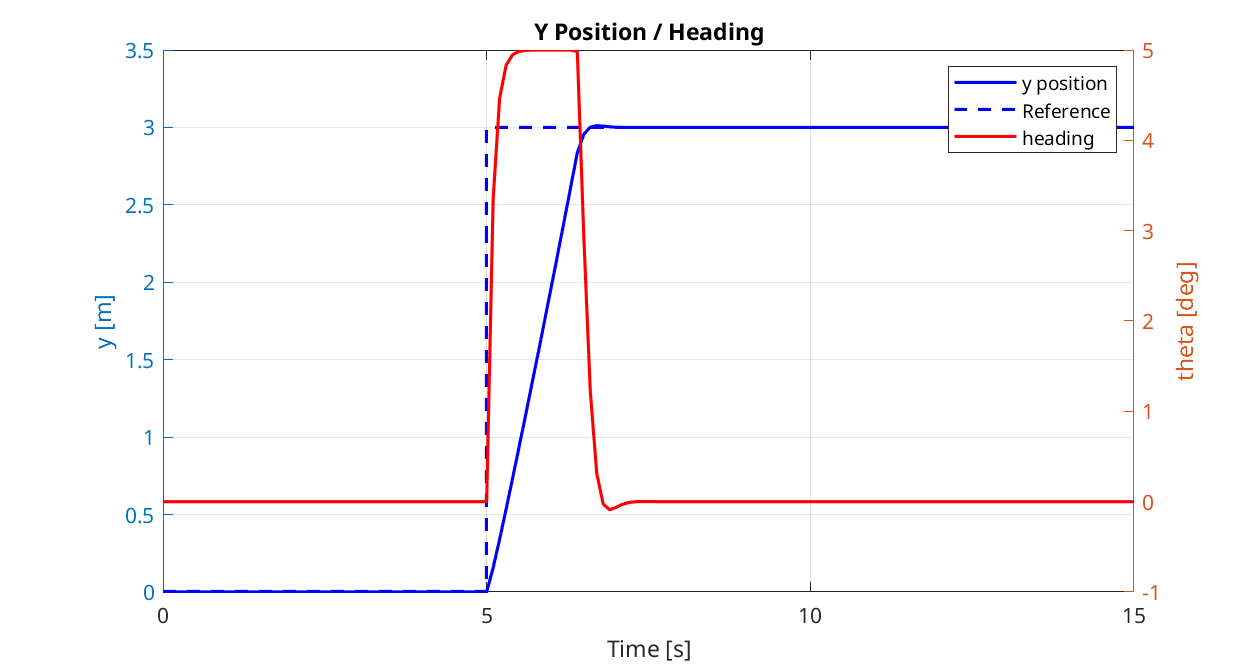
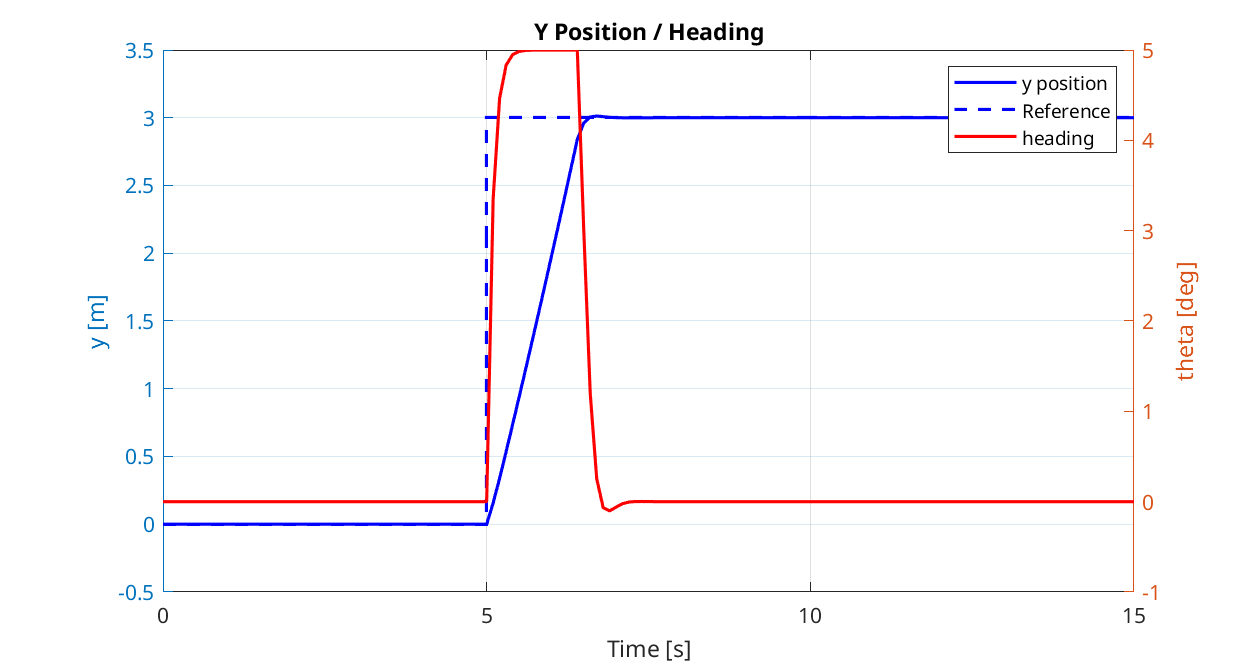
Deliverable 3 finished

diff --git a/Deliverable_5/MpcControl_lat.m b/Deliverable_5/MpcControl_lat.m
@@ -39,102 +39,90 @@ classdef MpcControl_lat < MpcControlBase
             
             % SET THE PROBLEM CONSTRAINTS con AND THE OBJECTIVE obj HERE
 
-            % Define cost matrices for the objective function
-            % Q penalizes state deviations: lateral position (y) and heading angle (theta)
-            % Higher weight on theta ensures good heading tracking
-            Q = diag([1, 10]);     % State cost: [y_weight, theta_weight]
-            R = 1;                 % Input cost: Penalty on steering angle
+            % State cost matrix Q penalizes deviations from reference state
+            % - Weight of 4 on lateral position error (y)
+            % - Weight of 4 on heading angle error (theta)
+            Q_track = diag([1, 1]);
             
-            % Define state constraints
-            % The car must stay within road boundaries and maintain reasonable heading
-            % y ∈ [-0.5, 3.5] meters (road boundaries)
-            % theta ∈ [-5°, 5°] (heading angle limits)
-            F = [1 0;              % Maximum y constraint
-                 -1 0;             % Minimum y constraint
-                 0 1;              % Maximum theta constraint
-                 0 -1];           % Minimum theta constraint
-            f = [3.5;              % Maximum y value
-                 0.5;              % Minimum y value (negative)
-                 5*pi/180;         % Maximum theta value
-                 5*pi/180];        % Maximum theta value (symmetric)
+            % Input cost matrix R penalizes control effort
+            % - Weight of 5 on steering angle changes
+            R_track = 2;
             
-            % Define input constraints
-            % Limit steering angle to ±30 degrees
-            M = [1; -1];           % For u ≤ 30° and -u ≤ 30°
-            m = [30*pi/180;        % Maximum steering angle
-                 30*pi/180];       % Maximum steering angle (symmetric)
+            % State constraints define safe operating region
+            % - Lateral position y must stay within road boundaries [-0.5, 3.5] meters
+            % - Heading angle theta must stay within [-5°, 5°]
+            F = [1  0;    % y ≤ 3.5
+                -1  0;    % -y ≤ 0.5
+                 0  1;    % theta ≤ 5°
+                 0 -1];   % -theta ≤ 5°
+            f = [3.5;              % Max y
+                 0.5;              % Min y (negative)
+                 5*pi/180;         % Max theta
+                 5*pi/180];        % Min theta (symmetric)
             
-            % Compute terminal cost and control law using LQR
-            % This provides stability guarantees for the MPC controller
-            [K, Qf,~] = dlqr(mpc.A,mpc.B,Q,R);   % Compute LQR solution
-            K = -K;                              % Convert to state feedback form u = Kx
+            % Input constraints limit steering angle to ±30 degrees
+            M = [1; -1];           % Steering constraints: δ ≤ 30° and -δ ≤ 30°
+            m = [30*pi/180;        % Max steering angle
+                 30*pi/180];       % Min steering angle (symmetric)
+            
+            % Terminal cost and controller for stability
+            % More conservative weights for terminal control
+            Q_term = Q_track/2;    % Terminal state cost
+            R_term = R_track*2;               % Terminal input cost
+            [Kt, Qf, ~] = dlqr(mpc.A, mpc.B, Q_term, R_term);  % LQR solution
+            Kt = -Kt;  % Convert to state feedback form u = Kx
             
             % Compute maximal invariant set for terminal constraints
-            % This set guarantees recursive feasibility and stability
-            Xf = polytope([F;M*K],[f;m]);        % Initial polytope with state and input constraints
-            Acl = mpc.A+mpc.B*K;                 % Closed-loop system matrix
-            % Iterate until we find the maximal invariant set
+            % This ensures recursive feasibility and stability
+            Xf = polytope([F; M*Kt], [f; m]);  % Initial polytope combining state and input constraints
+            Acl = mpc.A + mpc.B*Kt;           % Closed-loop dynamics matrix
+            
+            % Iteratively compute the maximal invariant set
             while 1
-                prevXf = Xf;                     % Store current set
-                [T,t] = double(Xf);              % Get inequality representation
-                preXf = polytope(T*Acl,t);       % Compute one-step backward reachable set
-                Xf = intersect(Xf, preXf);       % Intersect with current set
-                if isequal(prevXf, Xf)           % Check if set has converged
+                prevXf = Xf;
+                [T, t] = double(Xf);
+                preXf = polytope(T*Acl, t);    % One-step backward reachable set
+                Xf = intersect(Xf, preXf);     % Intersect with current set
+                if isequal(prevXf, Xf)
                     break
                 end
             end
-            [Ff,ff] = double(Xf);                % Get final inequality representation
+            [Ff, ff] = double(Xf);  % Get final polytope representation
+                        
+            % Set up optimization variables
+            X = sdpvar(nx, N);     % State trajectory [y; theta]
+            U = sdpvar(nu, N-1);   % Input trajectory [steering_angle]
             
-            % Set up MPC optimization problem
+            % Initialize constraint list with initial condition
+            con = (X(:,1) == x0 - mpc.xs);  % Initial state in deviation coordinates
             
-            % Define optimization variables
-            X = sdpvar(nx, N);    % States over horizon (deviation from xs)
-            U = sdpvar(nu, N-1);  % Inputs over horizon (deviation from us)
-            
-            % Initial state constraint in deviation coordinates
-            con = (X(:,1) == x0 - mpc.xs);
-            
-            % Loop through prediction horizon
+            % Build constraints and objective over prediction horizon
+            obj = 0;
             for k = 1:N-1
-                % System dynamics in deviation coordinates
-                % x(k+1) - xs = A(x(k) - xs) + B(u(k) - us)
+                % Dynamic constraints (deviation coordinates)
                 con = con + (X(:,k+1) == mpc.A*X(:,k) + mpc.B*U(:,k));
                 
-                % State constraints in absolute coordinates
-                % Convert deviation state back to absolute for constraint checking
+                % State constraints (convert to absolute coordinates)
                 con = con + (F*(X(:,k) + mpc.xs) <= f);
                 
-                % Input constraints in absolute coordinates
-                % Convert deviation input back to absolute for constraint checking
+                % Input constraints (convert to absolute coordinates)
                 con = con + (M*(U(:,k) + mpc.us) <= m);
+                
+                % Accumulate objective: tracking cost
+                state_error = X(:,k) - (x_ref - mpc.xs);
+                input_error = U(:,k) - (u_ref - mpc.us);
+                obj = obj + state_error'*Q_track*state_error + input_error'*R_track*input_error;
             end
             
-            % Terminal constraint from invariant set (in deviation coordinates)
-            % This ensures stability and recursive feasibility
-            con = con + (Ff*(X(:,N) + mpc.xs) <= ff);
+            % Add terminal constraint and cost
+            con = con + (Ff*(X(:,N) + mpc.xs) <= ff);  % Terminal set constraint
+            state_error = X(:,N) - (x_ref - mpc.xs);
+            obj = obj + state_error'*Qf*state_error;    % Terminal cost from LQR
             
-            % First input constraint (convert back to absolute coordinates)
+            % Extract first input (convert back to absolute coordinates)
             con = con + (u0 == U(:,1) + mpc.us);
             
-            % Set up objective function
-            obj = 0;
-            
-            % Add stage costs
-            for k = 1:N-1
-                % State error cost (in deviation coordinates)
-                state_error = X(:,k) - (x_ref - mpc.xs);
-                obj = obj + state_error'*Q*state_error;
-                
-                % Input error cost (in deviation coordinates)
-                input_error = U(:,k) - (u_ref - mpc.us);
-                obj = obj + input_error'*R*input_error;
-            end
-            
-            % Add terminal cost using LQR 
-            state_error = X(:,N) - (x_ref - mpc.xs);
-            obj = obj + state_error'*Qf*state_error;
-            
-            % Store variables for debugging
+            % Store debugging variables
             debugVars = {X, U};
             
             % YOUR CODE HERE YOUR CODE HERE YOUR CODE HERE YOUR CODE HERE

diff --git a/Deliverable_5/tube_mpc_sets.m b/Deliverable_5/tube_mpc_sets.m
@@ -30,8 +30,8 @@ B = -B;  % This matches equation (9) from the problem statement
 
 % Define cost weights for tracking control
 % States: [relative position; relative velocity]
-Q_track = diag([30, 60]);  % Higher weight on position than velocity 
-R_track = 4;             % Moderate penalty on control effort
+Q_track = diag([10, 30]);  % Higher weight on velocity than position 
+R_track = 1;              % Moderate penalty on control effort
 
 % Compute optimal feedback gain using discrete-time LQR
 K = -dlqr(A, B, Q_track, R_track); 
@@ -42,7 +42,7 @@ Acl = A + B*K;
 %% Minimal Robust Invariant Set Computation
 % Calculate the smallest set that bounds the effect of disturbances.
 % This set represents the tube around our nominal trajectory.
-uTs = 0;
+uTs = us(2);
 % Define input disturbance set (uncertain lead car throttle)
 W = Polyhedron('lb', uTs-0.5, 'ub', uTs+0.5);  % Throttle can vary by ±0.5 TAKE INTO ACCOUNT UTs?
 W = -B*W;                                       % Map throttle disturbance to state space
@@ -93,23 +93,18 @@ xlabel('Position Error');
 ylabel('Velocity Error');
 title('Minimal Robust Invariant Set');
 
-%% Define Safe Distance and Constraints
-% Set up the state and input constraints for the system.
-% These ensure safety and feasible operation.
+%% Constraint Definition
+% State constraints
+% The constraint ˜x - x ≥ 6 means the relative position must be at least 6m
+% Define x_safe (steady-state safe point behind lead car)
+x_safe_pos = 8;             % Choose a comfortable safety margin 
+x_safe = [x_safe_pos; 0];    % [position; velocity]
+min_gap = 6;                 % Minimum required gap between cars
 
-% Define safety parameters
-xsafe_pos = 8;           % Desired safety gap (meters)
-xsafe = [xsafe_pos; 0];  % Safety reference point [position; velocity]
-
-% Define state constraints relative to safety gap
-min_total_distance = 6;   % Minimum required gap between vehicles
-max_total_distance = 1e3;  % Maximum desired following distance
-max_rel_velocity = 1e3;    % Maximum allowed relative velocity
-
-% Convert absolute constraints to relative constraints
-x_min = [min_total_distance - xsafe_pos; -max_rel_velocity];
-x_max = [max_total_distance - xsafe_pos;  max_rel_velocity];
-X = Polyhedron('lb', x_min, 'ub', x_max);
+% State constraint set X
+% For relative position: Δx ≥ 6 
+% We don't constrain relative velocity directly
+X = Polyhedron('A', [-1 0], 'b', -(min_gap - x_safe_pos)); % Only constrain relative position
 
 % Define input constraints (throttle limits)
 u_min = -1;  % Maximum braking
@@ -137,6 +132,7 @@ R_term = R_track*2;               % Double input penalty - smoother control
 [Kt, Qf] = dlqr(A, B, Q_term, R_term);
 Kt = -Kt;
 Acl_t = A + B*Kt;  % Terminal closed-loop system
+
 
 %% Terminal Set Computation
 % Compute the terminal set for the MPC controller
@@ -221,5 +217,5 @@ save('tube_mpc_data.mat', ...
     'Q_term', 'R_term', ...            % Terminal weights
     'E', 'terminal_set', ...           % Sets
     'X_tilde', 'U_tilde', ...          % Constraints
-    'min_total_distance', 'xsafe_pos' ...  % Safety parameters
+    'min_gap', 'x_safe_pos' ...  % Safety parameters
 );

diff --git a/Deliverable_3/MpcControl_lat.m b/Deliverable_3/MpcControl_lat.m
@@ -40,13 +40,13 @@ classdef MpcControl_lat < MpcControlBase
             % SET THE PROBLEM CONSTRAINTS con AND THE OBJECTIVE obj HERE
 
             % State cost matrix Q penalizes deviations from reference state
-            % - Weight of 2 on lateral position error (y)
-            % - Weight of 4 on heading angle error (theta)
-            Q_track = diag([2, 4]);
+            % - Weight of 1 on lateral position error (y)
+            % - Weight of 1 on heading angle error (theta)
+            Q_track = diag([1, 1]);
             
             % Input cost matrix R penalizes control effort
-            % - Weight of 5 on steering angle changes
-            R_track = 5;
+            % - Weight of 2 on steering angle changes
+            R_track = 2;
             
             % State constraints define safe operating region
             % - Lateral position y must stay within road boundaries [-0.5, 3.5] meters

diff --git a/Deliverable_4/MpcControl_lat.m b/Deliverable_4/MpcControl_lat.m
@@ -40,13 +40,13 @@ classdef MpcControl_lat < MpcControlBase
             % SET THE PROBLEM CONSTRAINTS con AND THE OBJECTIVE obj HERE
 
             % State cost matrix Q penalizes deviations from reference state
-            % - Weight of 2 on lateral position error (y)
-            % - Weight of 4 on heading angle error (theta)
-            Q_track = diag([2, 4]);
+            % - Weight of 1 on lateral position error (y)
+            % - Weight of 1 on heading angle error (theta)
+            Q_track = diag([1, 1]);
             
             % Input cost matrix R penalizes control effort
-            % - Weight of 5 on steering angle changes
-            R_track = 5;
+            % - Weight of 2 on steering angle changes
+            R_track = 2;
             
             % State constraints define safe operating region
             % - Lateral position y must stay within road boundaries [-0.5, 3.5] meters

diff --git a/Deliverable_6/Deliverable_6_2/NmpcControl_overtake.m b/Deliverable_6/Deliverable_6_2/NmpcControl_overtake.m
@@ -56,10 +56,10 @@ classdef NmpcControl_overtake < handle
             % Define your problem using the opti object created above
             
             % Cost function weights
-            Q_track = diag([0, 1, 20, 5]);    % State tracking weights:
+            Q_track = diag([0, 1, 20, 8]);    % State tracking weights:
                                               % [x position (unused), y position, heading angle, velocity]
                                               % Higher weight (30) on velocity tracking
-            R_track = diag([10, 20]);         % Input cost weights for smoother control:
+            R_track = diag([10, 10]);         % Input cost weights for smoother control:
                                               % [steering angle, throttle]
             Q_term = Q_track/2;               % Terminal cost weight
             

diff --git a/Deliverable_4/MpcControl_lon.m b/Deliverable_4/MpcControl_lon.m
@@ -47,12 +47,12 @@ classdef MpcControl_lon < MpcControlBase
             % Cost matrices for the MPC objective function
             % Q_track: State cost matrix that penalizes deviations from reference state
             % - No penalty on position (first state)
-            % - Weight of 8 on velocity error (second state)
-            Q_track = diag([0, 8]);
+            % - Weight of 2 on velocity error (second state)
+            Q_track = diag([0, 2]);
             
             % R_track: Input cost matrix that penalizes control effort
-            % - Weight of 7 on throttle usage
-            R_track = 7;
+            % - Weight of 1 on throttle usage
+            R_track = 1;
             
             % More conservative weights for terminal control
             Q_term = Q_track/2;

diff --git a/Deliverable_3/MpcControl_lon.m b/Deliverable_3/MpcControl_lon.m
@@ -47,12 +47,12 @@ classdef MpcControl_lon < MpcControlBase
             % Cost matrices for the MPC objective function
             % Q_track: State cost matrix that penalizes deviations from reference state
             % - No penalty on position (first state)
-            % - Weight of 4 on velocity error (second state)
-            Q_track = diag([0, 4]);
+            % - Weight of 2 on velocity error (second state)
+            Q_track = diag([0, 2]);
             
             % R_track: Input cost matrix that penalizes control effort
             % - Weight of 5 on throttle usage
-            R_track = 5;
+            R_track = 1;
             
             % More conservative weights for terminal control
             Q_term = Q_track/2;

diff --git a/Deliverable_5/robust_tube_mpc.m b/Deliverable_5/robust_tube_mpc.m
@@ -4,7 +4,7 @@ clc
 
 %% Initialize MPC Controllers
 Ts = 1/10;                               % Sample time: 0.1 seconds
-H = 2;                                   % Prediction horizon: 2 seconds
+H = 3;                                   % Prediction horizon: 2 seconds
 
 % Setup car and get linearized model
 car = Car(Ts);
@@ -18,7 +18,7 @@ mpc_lat = MpcControl_lat(sys_lat, Ts, H);
 mpc = car.merge_lin_controllers(mpc_lon, mpc_lat);
 
 
-%% Simulating Closed-Loop robuste tube MPC 
+%% Simulating Closed-Loop robust tube MPC 
 
 ref = [0 120/3.6]';
 params = {};

diff --git a/Deliverable_5/MpcControl_lon.m b/Deliverable_5/MpcControl_lon.m
@@ -46,7 +46,7 @@ classdef MpcControl_lon < MpcControlBase
           
             % Load pre-computed tube MPC components for robust control
             data = load('tube_mpc_data.mat');
-            xsafe = [data.xsafe_pos; 0];  % Safe reference point [position; velocity]
+            xsafe = [data.x_safe_pos; 0];  % Safe reference point [position; velocity]
             
             % Cost matrices for nominal trajectory tracking
             Q_track = data.Q_track;    % State cost matrix

diff --git a/Deliverable_4/offset_free_tracking.m b/Deliverable_4/offset_free_tracking.m
@@ -5,7 +5,7 @@ clc
 %% Initialize MPC Controllers
 
 Ts = 1/10;                               % Sample time: 0.1 seconds
-H = 2;                                  % Prediction horizon: 2 seconds
+H = 3;                                  % Prediction horizon: 2 seconds
 
 % Setup car and get linearized model
 car = Car(Ts);

diff --git a/Deliverable_3/mpc_controllers_sub_sys.m b/Deliverable_3/mpc_controllers_sub_sys.m
@@ -105,5 +105,5 @@ params.myCar.ref = car.ref_step(ref1, ref2, 5); % delay reference step by 5s
 result = simulate(params);
 visualization(car, result);
 
-% [f1, f2, f3, f4, f5, f6] = plot_results(result);
+%[f1, f2, f3, f4, f5, f6] = plot_results(result);
 

diff --git a/Deliverable_6/Deliverable_6_2/non_linear_mpc_overtake.m b/Deliverable_6/Deliverable_6_2/non_linear_mpc_overtake.m
@@ -6,7 +6,7 @@ clc
 
 Ts = 1/10;  % Sample time from project description
 car = Car(Ts);
-H = 2;      % 2 seconds prediction horizon
+H = 3;      % 3 seconds prediction horizon
 
 % Create non linear controller
 mpc = NmpcControl_overtake(car, H);
